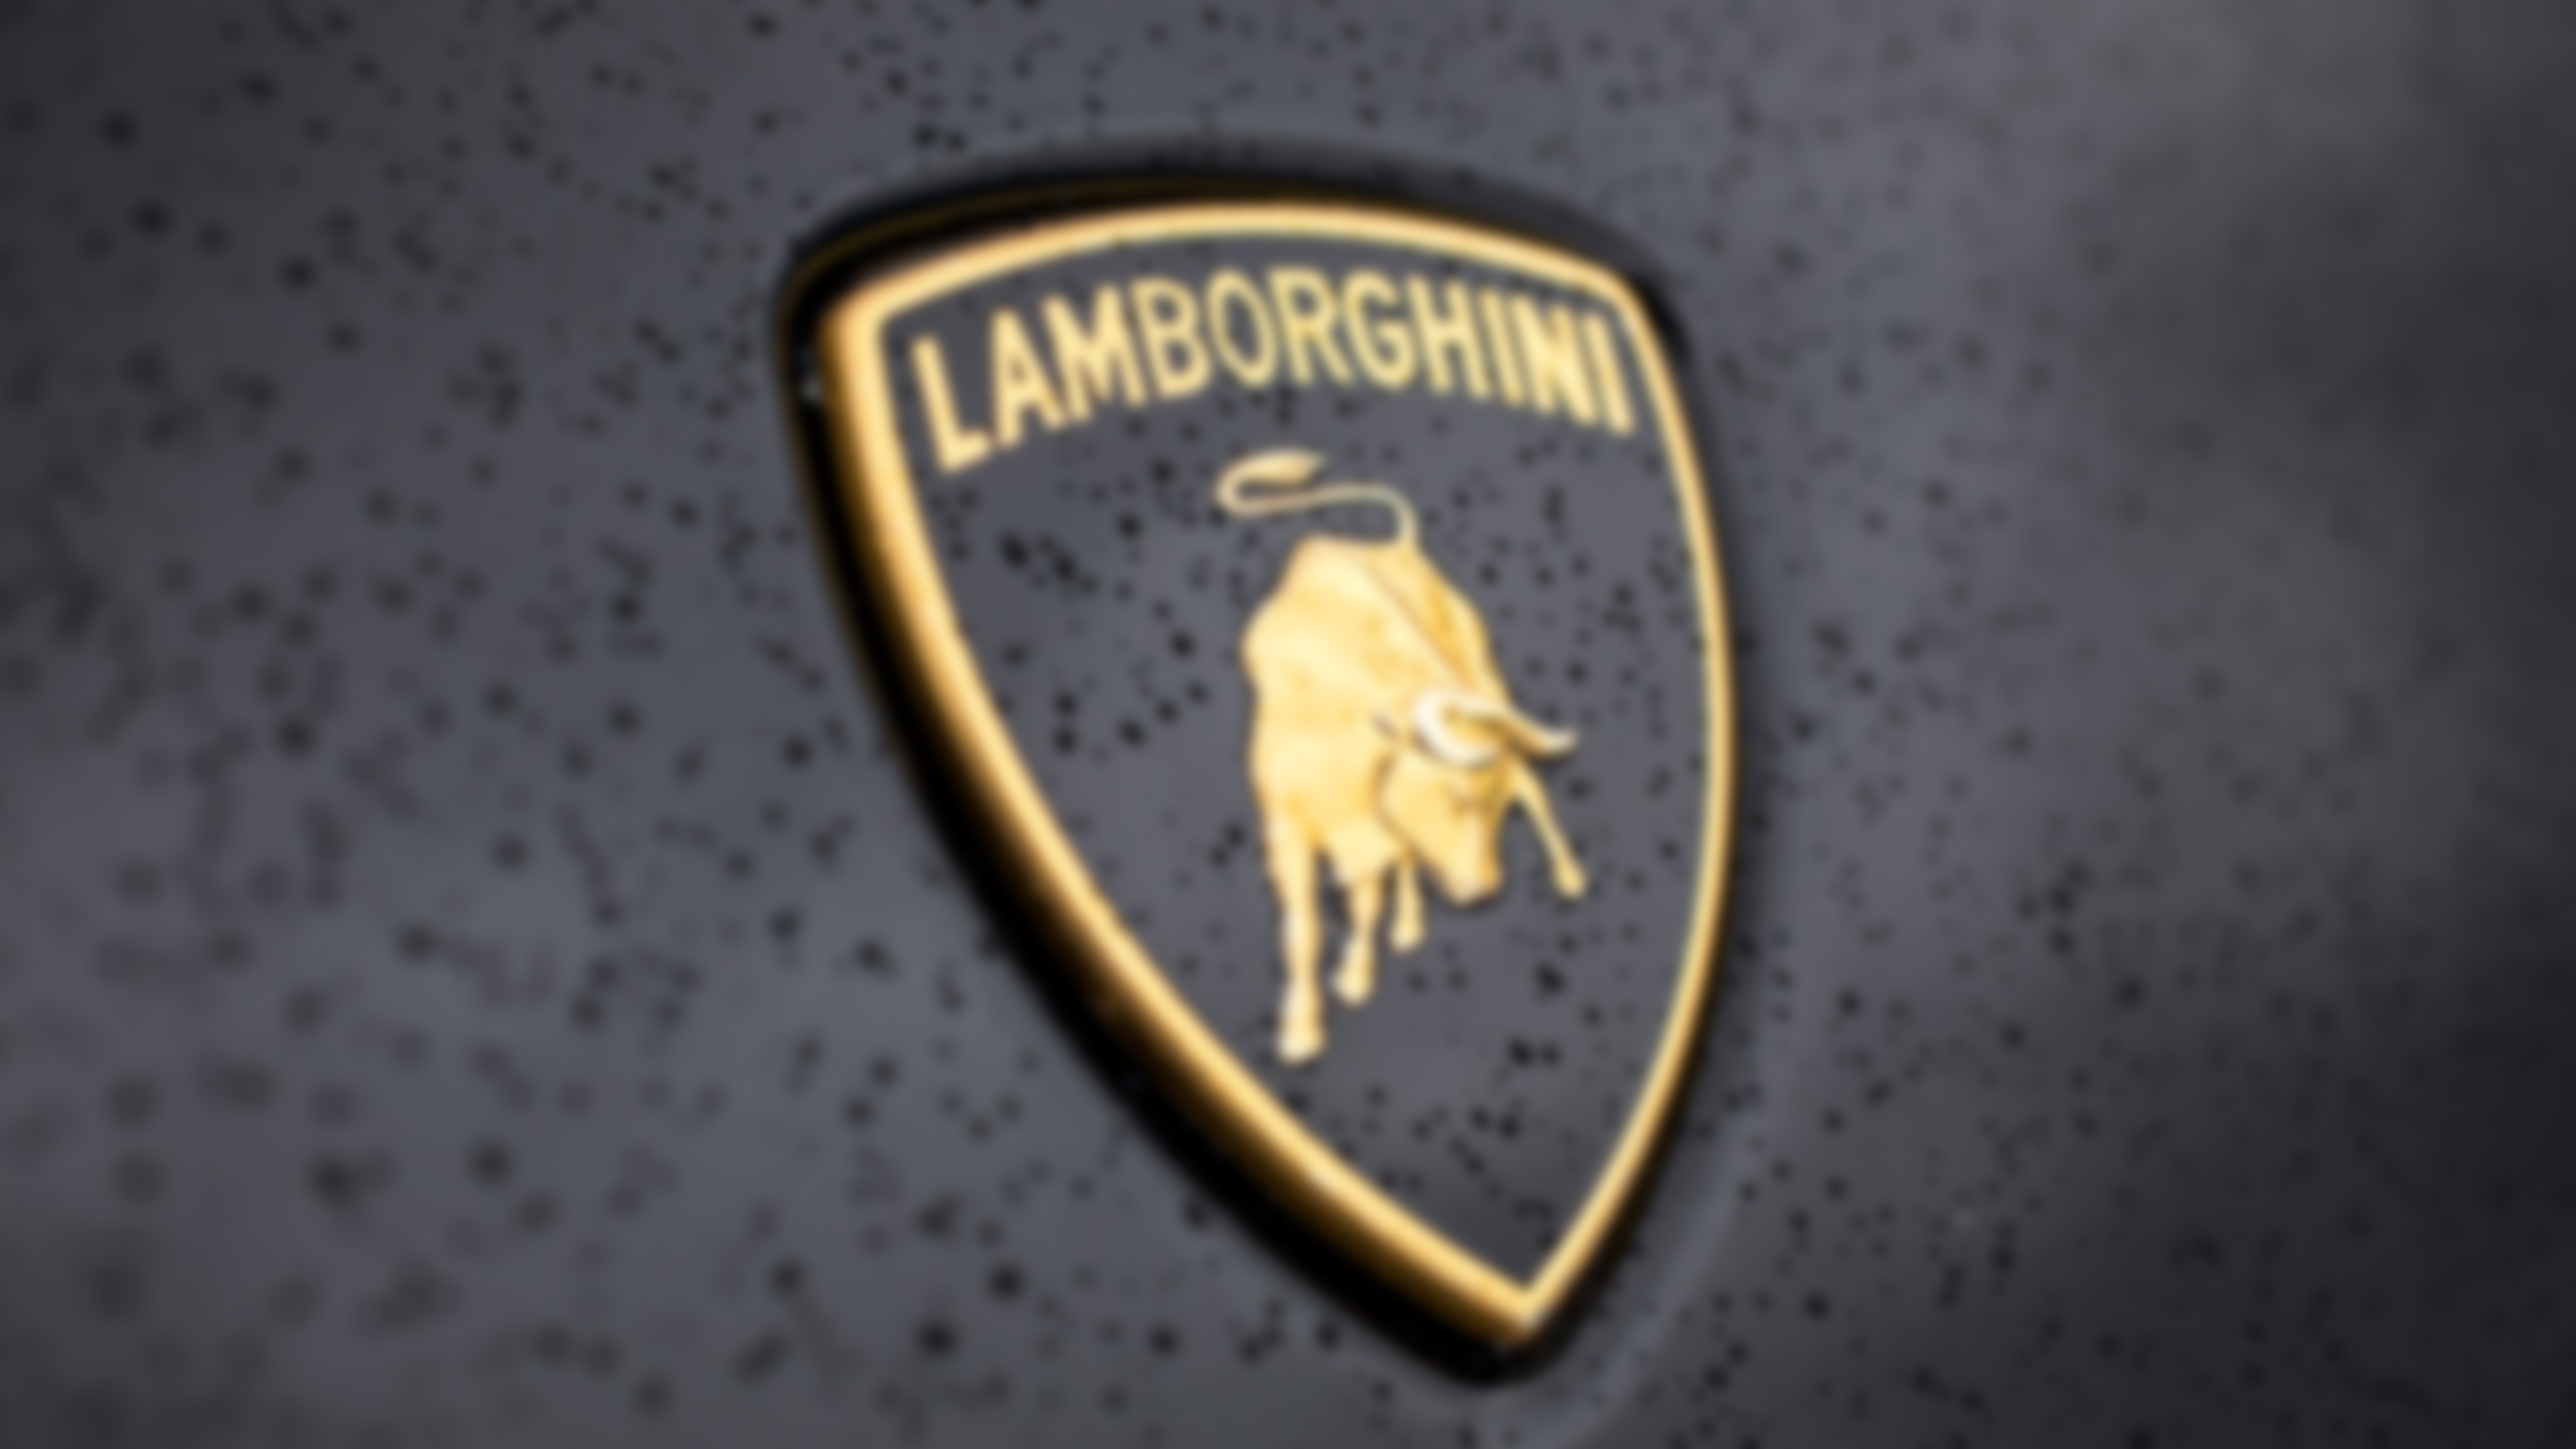
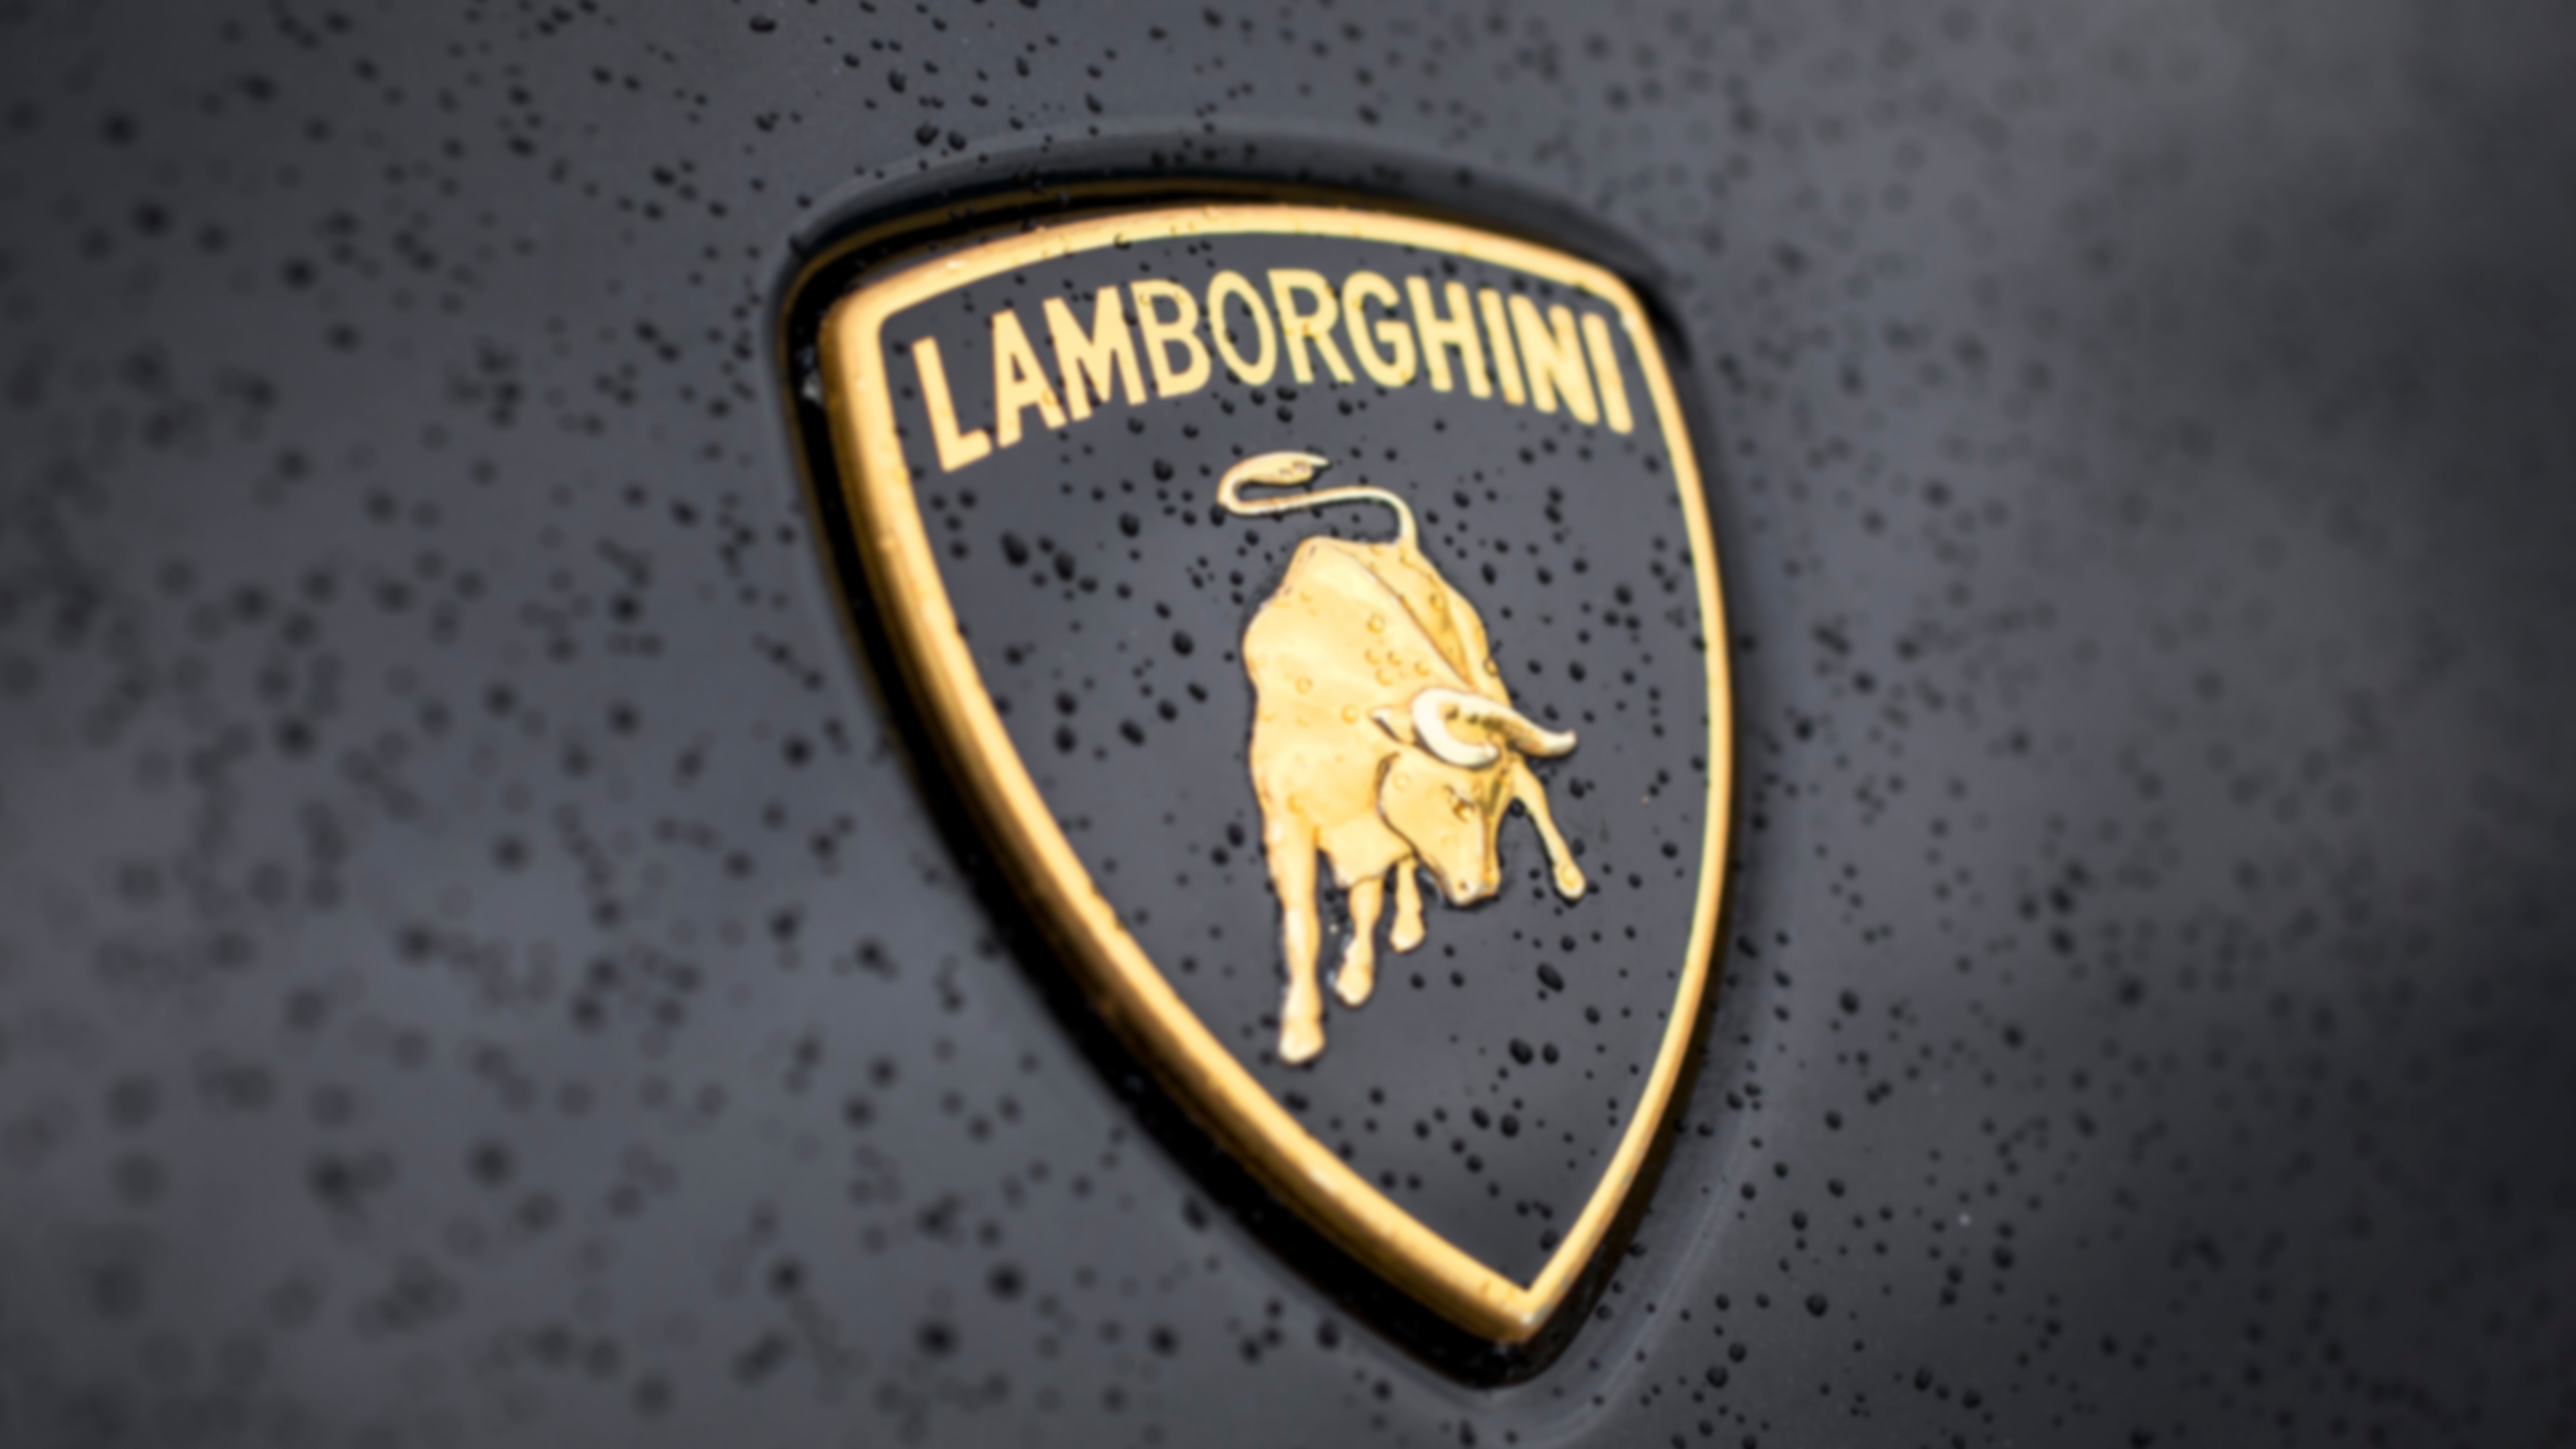
Added parallax scroll effect

diff --git a/index.html b/index.html
@@ -57,9 +57,13 @@
                         available
                         exclusively from Lamborghini. </p>
                 </section>
-
             </div>
         </div>
+
+        <img class="flag"
+            src="https://upload.wikimedia.org/wikipedia/commons/thumb/a/ac/Printable_Flag_of_Italy.svg/2560px-Printable_Flag_of_Italy.svg.png"
+            alt="">
+
         <h2>Lamborghini Aventador SVJ</h2>
         <div class="car">
             <div class="wrapper">
@@ -105,7 +109,11 @@
             </div>
         </div>
 
-        <h2>Lamborgini Urus</h2>
+        <img class="flag"
+            src="https://upload.wikimedia.org/wikipedia/commons/thumb/a/ac/Printable_Flag_of_Italy.svg/2560px-Printable_Flag_of_Italy.svg.png"
+            alt="">
+
+        <h2>Lamborghini Urus</h2>
         <div class="car">
             <div class="wrapper">
                 <div class="slideContainer">
@@ -152,9 +160,6 @@
 
             </div>
         </div>
-
-
-
     </div>
     <script src="main.js"></script>
 </body>

diff --git a/style.css b/style.css
@@ -11,8 +11,9 @@ body {
     height: 100%;
     background-image: url(./images/background.jpg);
     background-size: cover;
-    background-position: center;
-    background-attachment: fixed;
+    background-repeat: no-repeat;
+  background-attachment: fixed;
+  background-position: center; 
 }
 
 .container {
@@ -29,7 +30,6 @@ body {
   display: flex;
   width: 100%;
   padding: 0;
-  margin-bottom: 120px;
   background-color: rgba(0, 0, 0, 0.5);
   justify-content: center;
   align-items: center;
@@ -38,7 +38,7 @@ body {
 h2 {
   /* border: 1px dotted red; */
   top: 0;
-  margin: 10px;
+  margin: 0;
   height: min-content;
   display: block;
   width: 100%;
@@ -107,6 +107,7 @@ h3 {
 
 p {
   margin-top: 0;
+  line-height: 125%;
 }
 
 section {
@@ -117,4 +118,10 @@ section:nth-of-type(3n){
   margin-bottom: 0;
 }
 
+.flag {
+  opacity: 0.5;
+  height: 15px;
+  margin-top: 60px;
+  margin-bottom: 60px;
+}
 

diff --git a/main.js b/main.js
@@ -1,0 +1,6 @@
+const parallax = document.getElementsByTagName("body");
+
+window.addEventListener("scroll", function () {
+    let offset = window.pageYOffset;
+    parallax[0].style.backgroundPositionY = offset * 0.05 + "%"
+})
